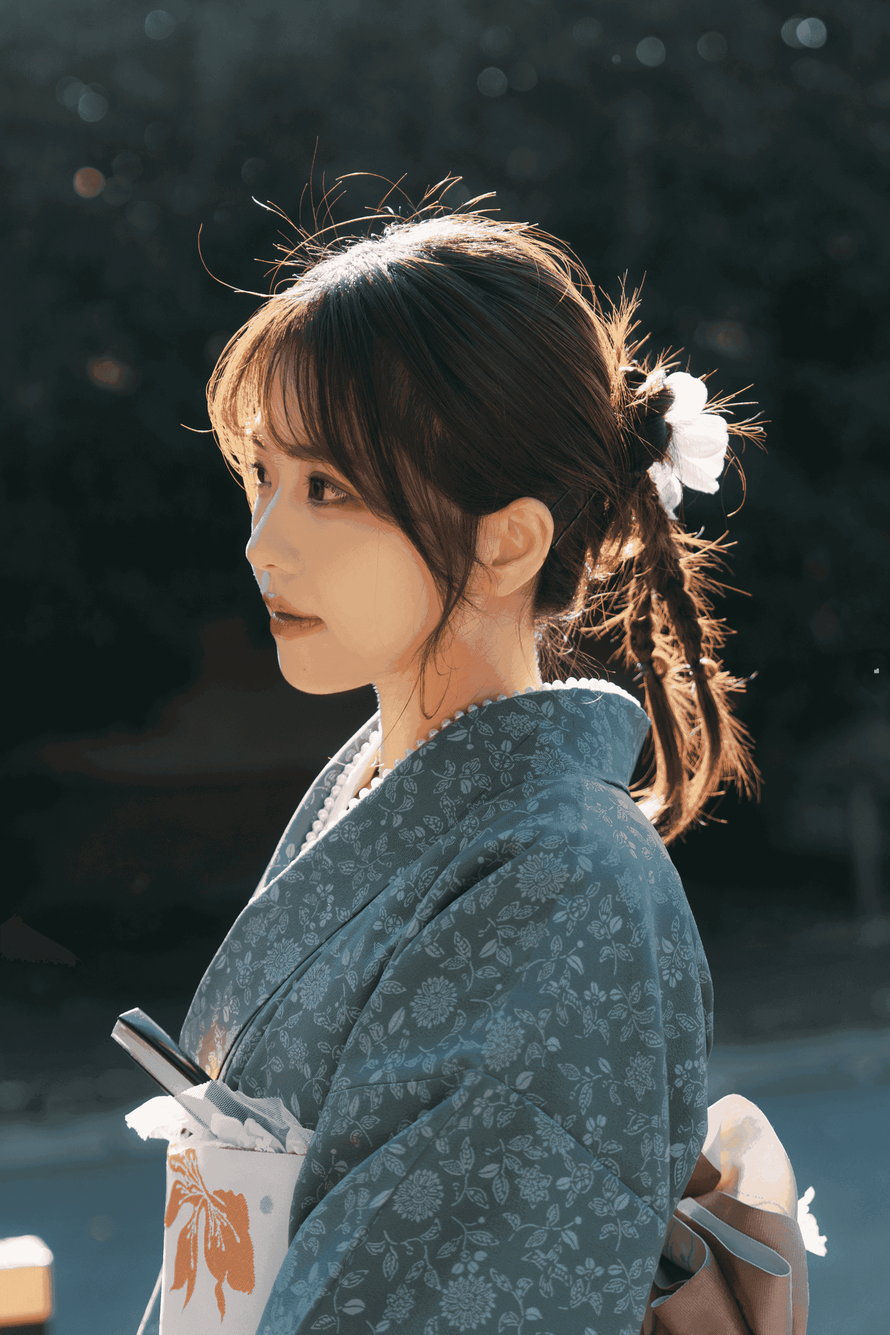
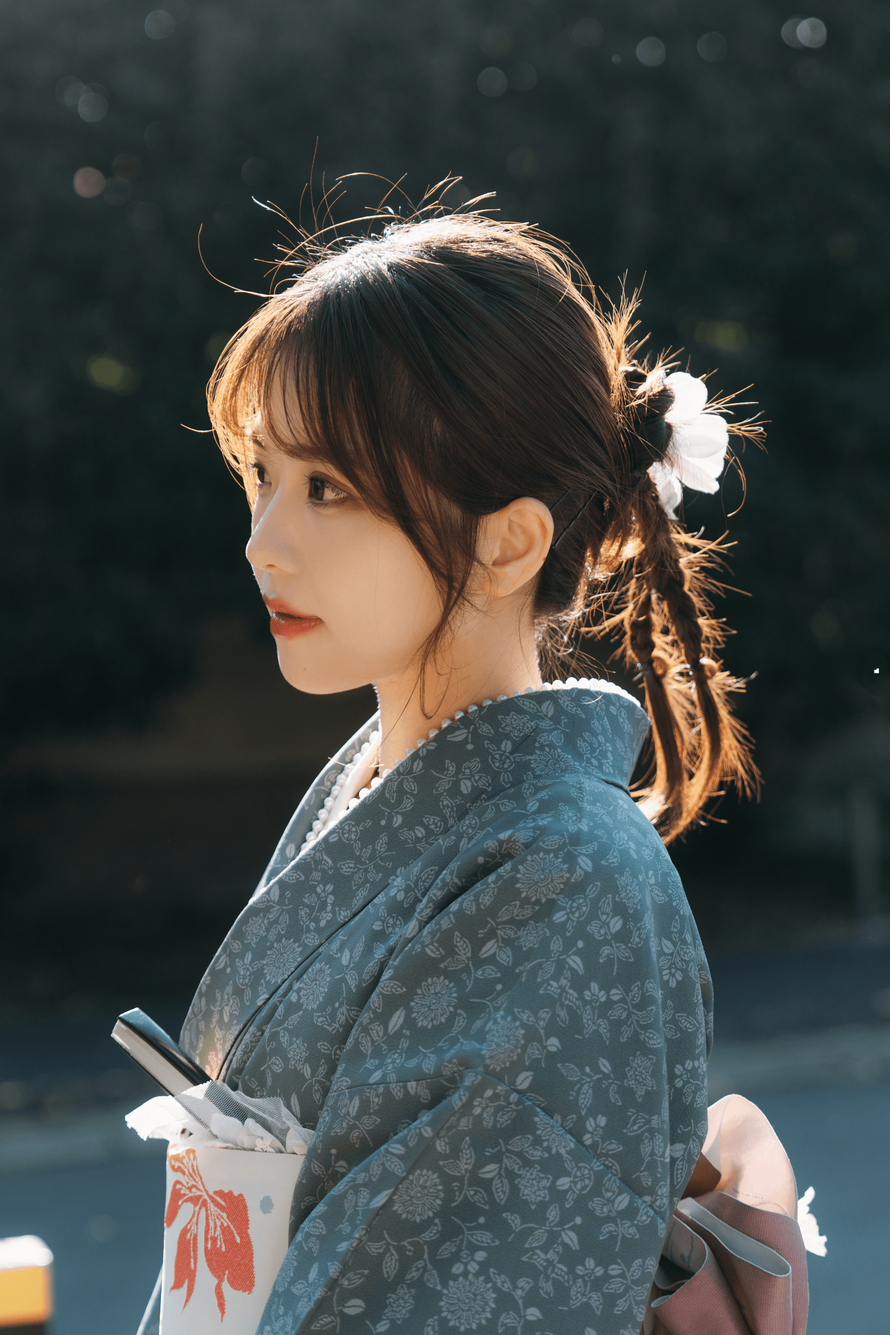
fix: 修正封面照3顏色偏移 + 壓縮腳本保留ICC色彩描述檔
原因：sharp 壓縮時未加 .withMetadata()，導致 ICC profile 被移除，
瀏覽器以錯誤色彩空間解讀圖片，造成顏色跑掉。

diff --git a/scripts/optimize-images.js b/scripts/optimize-images.js
@@ -292,6 +292,8 @@ async function compressImage(sharp, inputPath, opts) {
     if (opts.needResize) {
         pipeline = pipeline.resize({ width: opts.maxWidth, withoutEnlargement: true });
     }
+    // 保留 ICC 色彩描述檔，避免壓縮後顏色偏移
+    pipeline = pipeline.withMetadata();
 
     if (opts.convertWebp) {
         return pipeline.webp({ quality: opts.quality, effort: 4 }).toBuffer();
